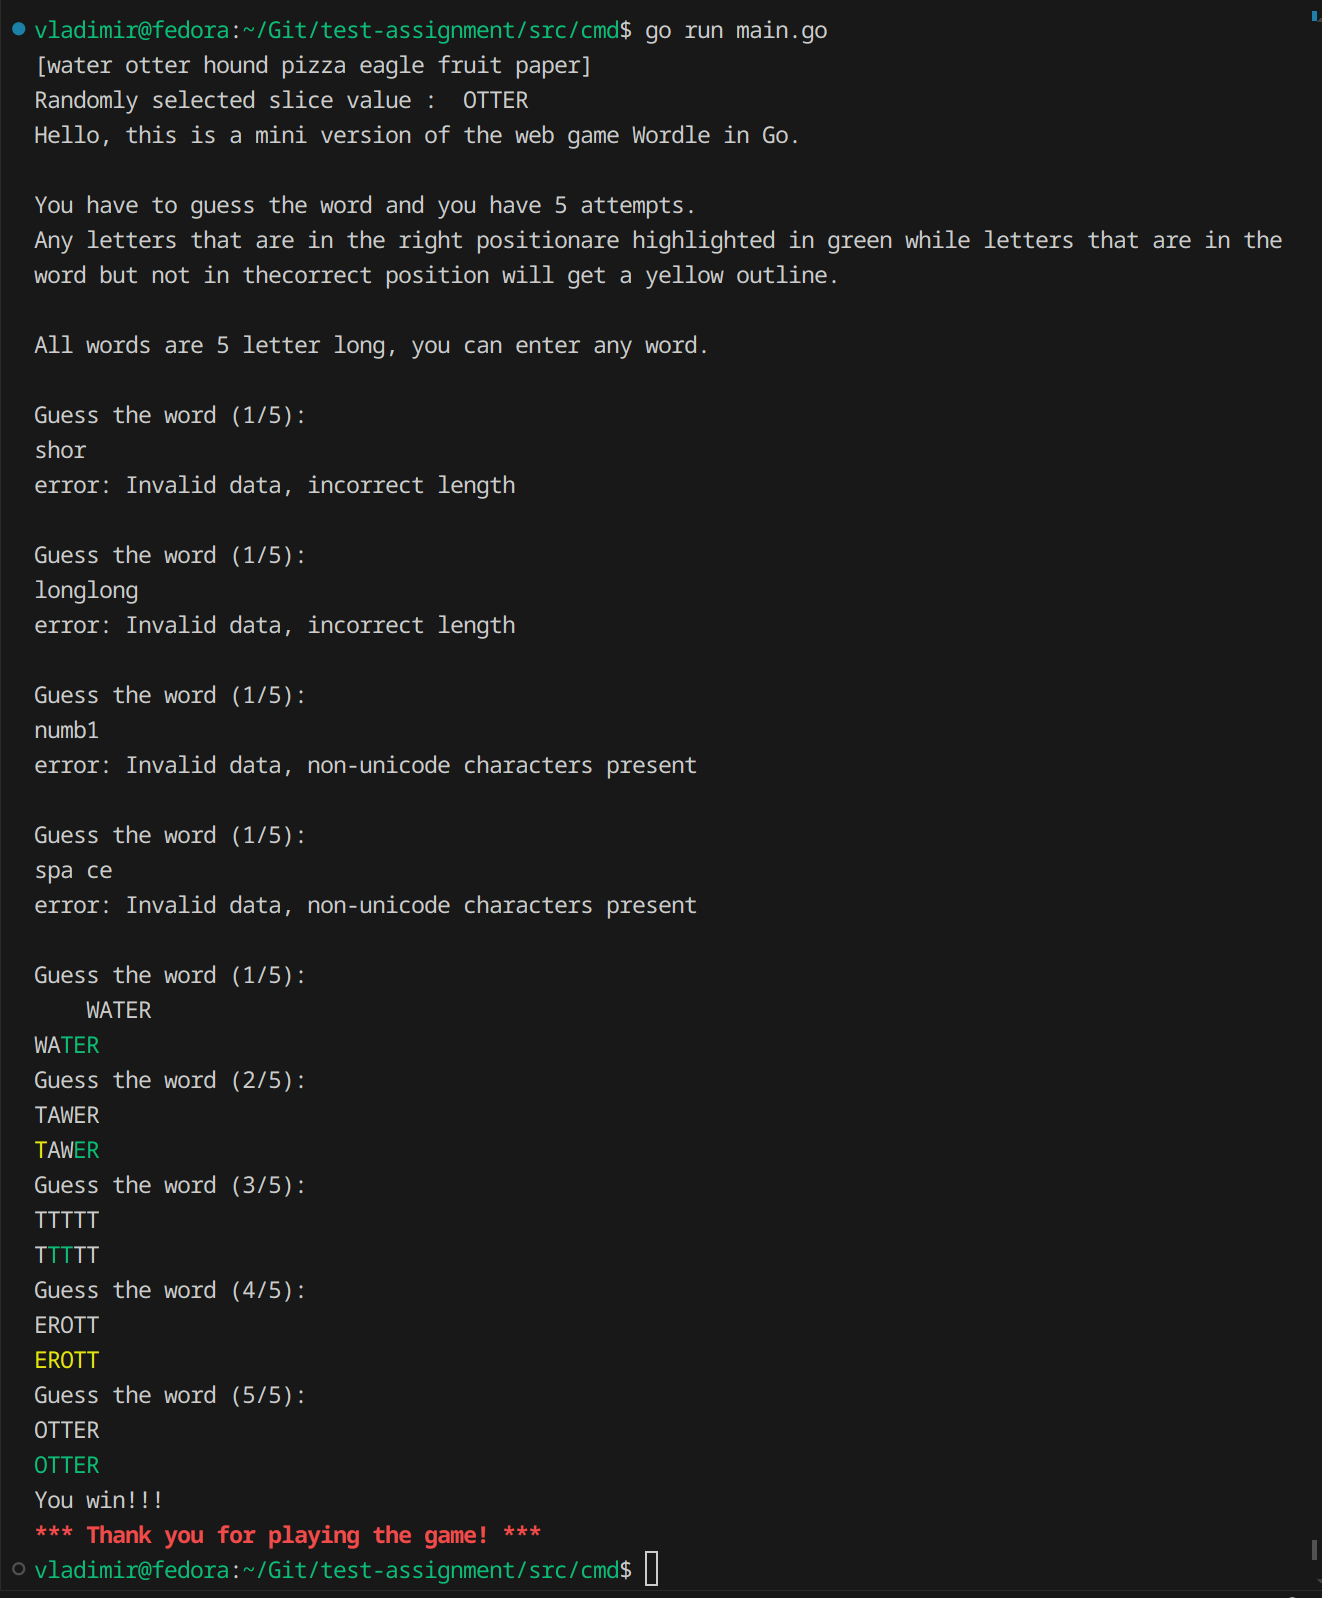
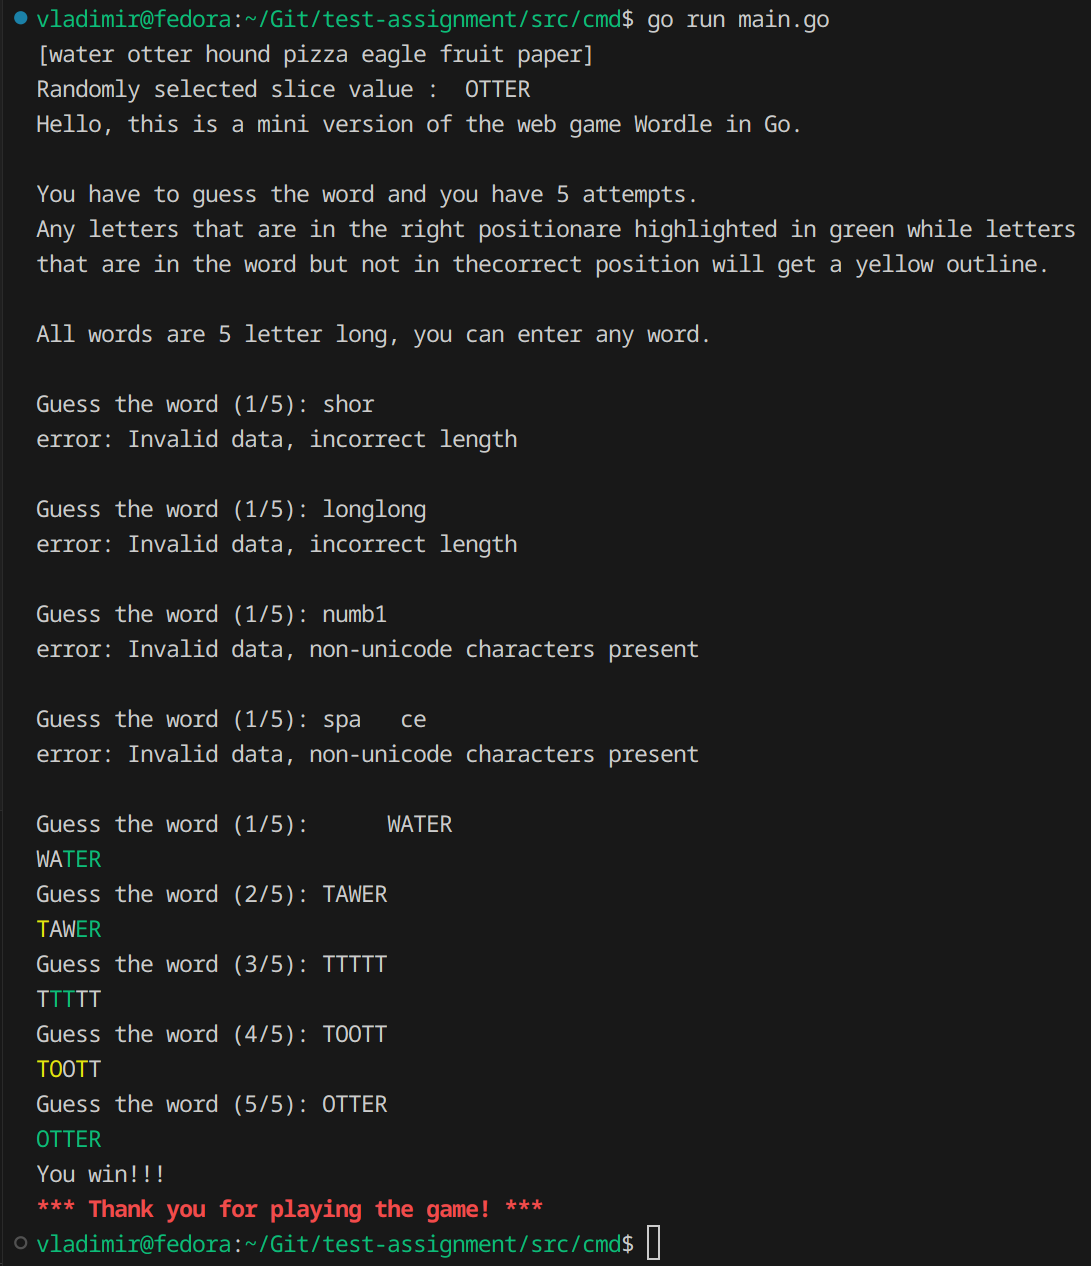
Update screenshot including new OTTER+TOOTT test case, adjust UI a bit

diff --git a/src/utils/utils.go b/src/utils/utils.go
@@ -42,7 +42,7 @@ func RunGameLoop(secretWord string, count, maxLength int, errChan chan error, wg
 	// Run the whole game in the loop until there are no more attempts or user wins the game.
 	var attempt int
 	for attempt = 0; attempt < count; attempt++ {
-		fmt.Printf("\nGuess the word (%d/%d): \n", attempt+1, maxLength)
+		fmt.Printf("\nGuess the word (%d/%d): ", attempt+1, maxLength)
 
 		// Read the user input.
 		input, err := reader.ReadString('\n')
